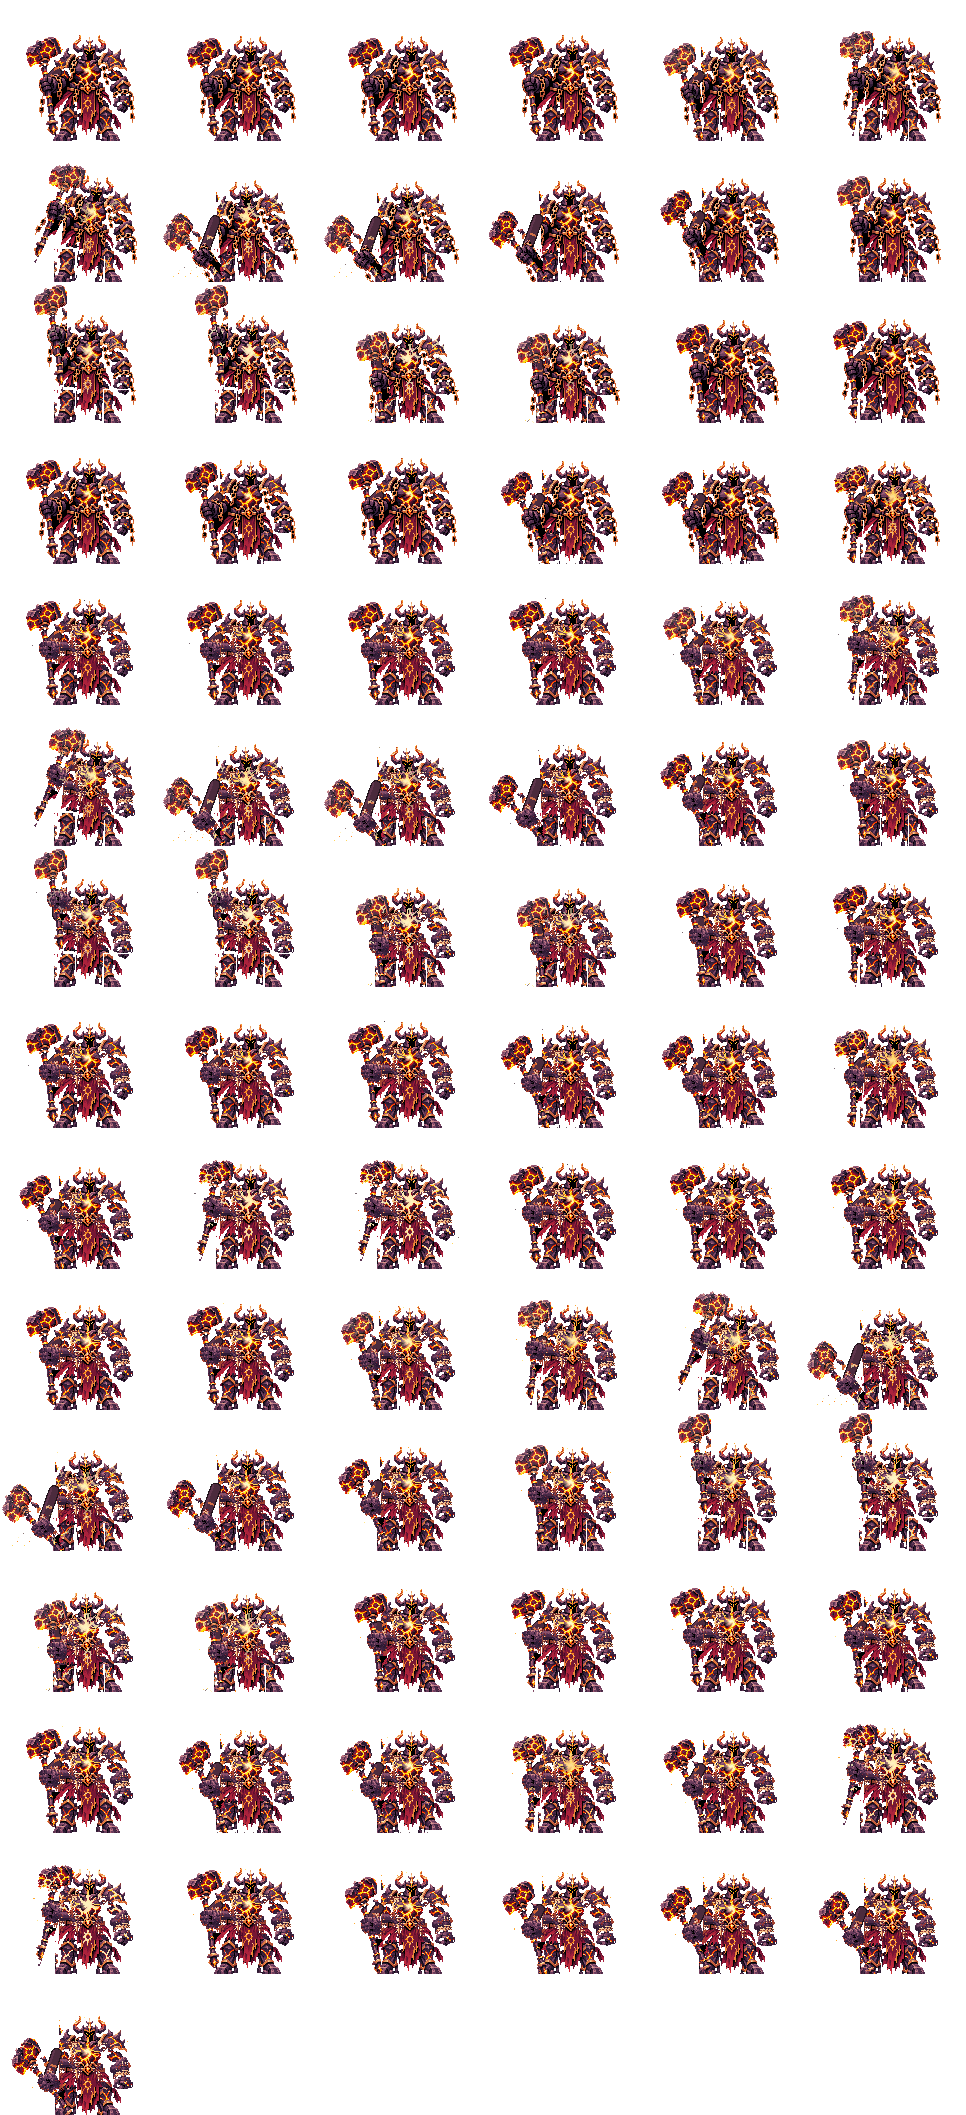
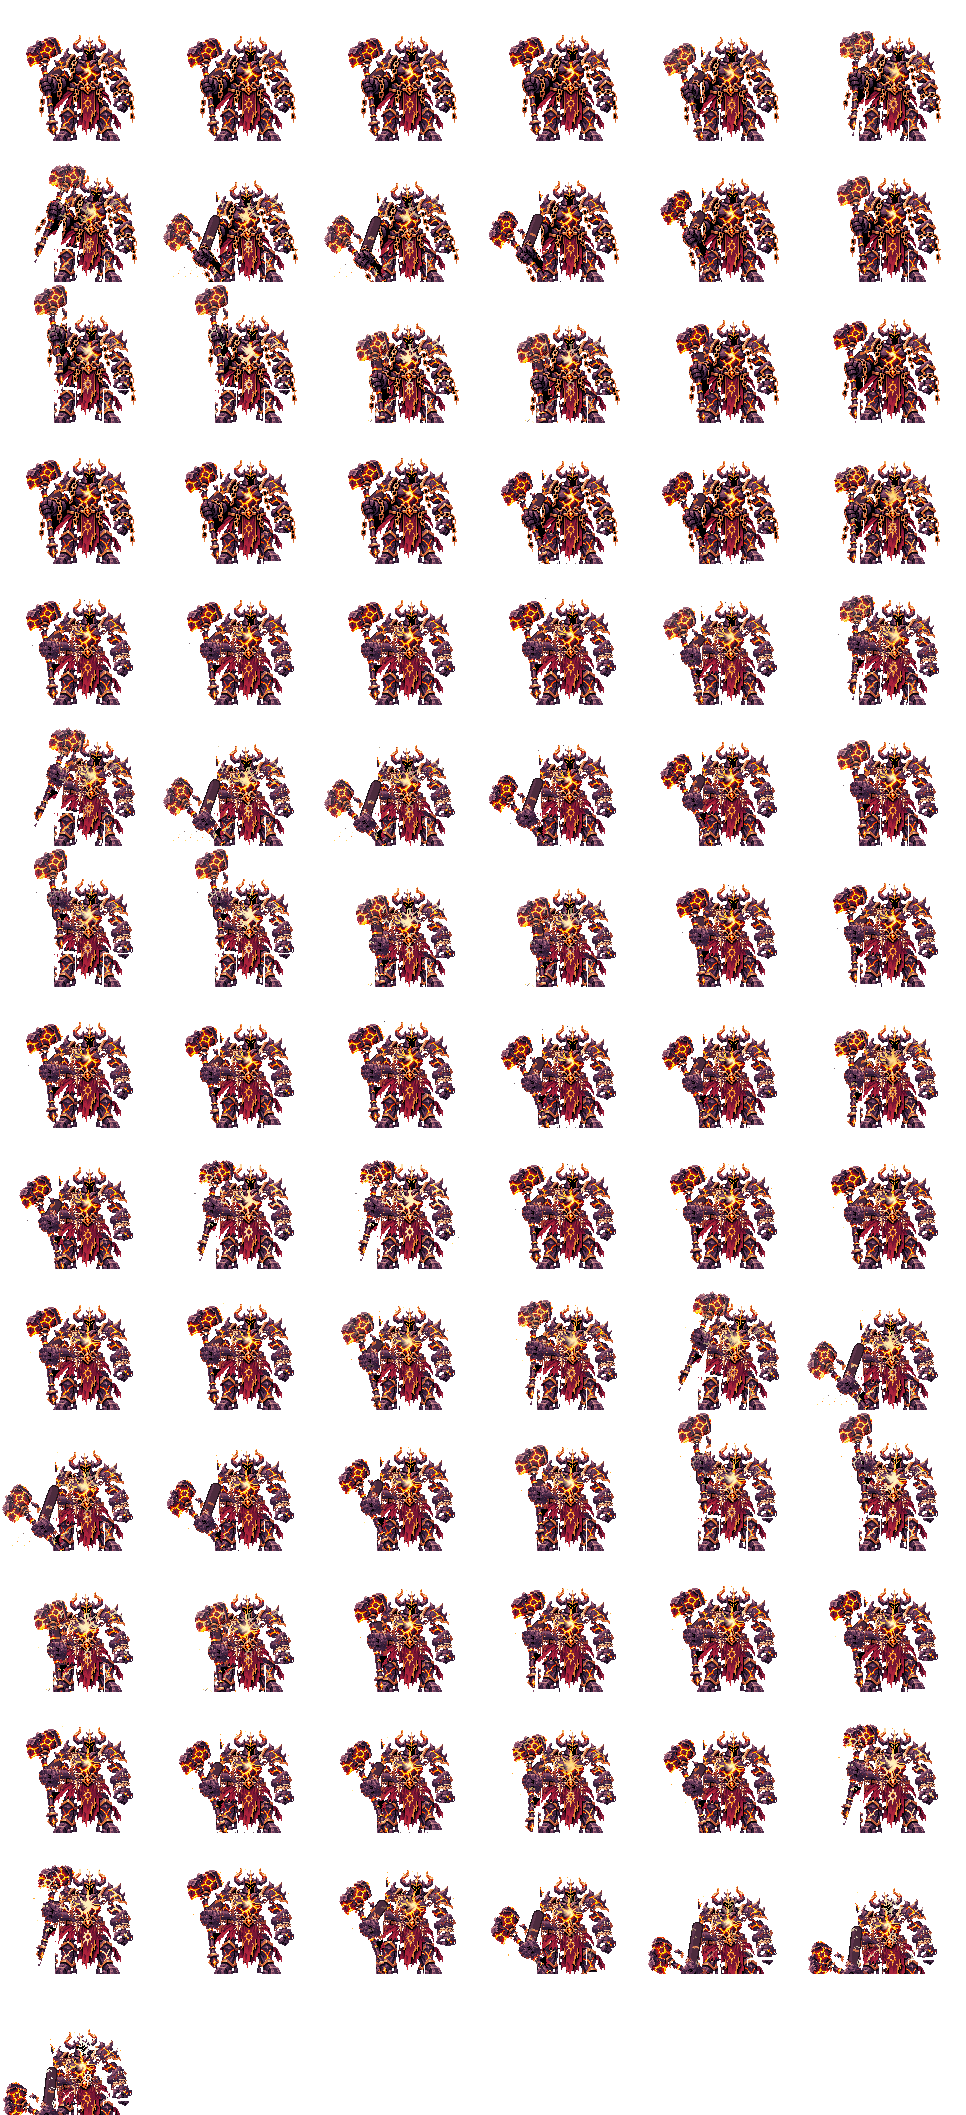
Ashkar's Last Crucible, and a true kneel when he dies (2026-11-11, the user: "Make the circle phase a mandatory survival phase at the end. Survival for 20 seconds and then he becomes vulnerable while continuing the phase until he's dead" and "The death animation is terrible. You basically condensed 

diff --git a/src/bosses/ashkar_gatekeeper.js b/src/bosses/ashkar_gatekeeper.js
@@ -296,6 +296,26 @@ function coreShot(g, e) {
 // center shot must be longer. Also, have the ray have two hands instead of one ray out. Make the lava cracks pixel"): 18 s
 // of it, not 10; two beams out of him, opposite, in II as in III; four blows of the handle, not two; the cracks in blocks
 const CRU_T = 18.2;                                          // (set to closed, s)
+// The Last Crucible (2026-11-11, the user: "Make the circle phase a mandatory survival phase at the end. Survival for 20
+// seconds and then he becomes vulnerable while continuing the phase until he's dead"): below 15% in III he strides to the
+// middle and the Crucible begins and never ends. For its first 20 s (from when he stands there) nothing hurts him: you
+// survive it. Then his armour gives and he can be struck, the cracks, the beams and the blows of his handle going on,
+// every 3.6 s, till he falls (they go out with him: game.js, a lane's boss)
+const FINAL_SURVIVE = 20;
+function lastCrucible(g, e) {
+  const S = e.bx;
+  S.akFinal = { startAt: g.t };
+  if (g.banner) g.banner('THE LAST CRUCIBLE · SURVIVE', 3000);
+  g.sfx('roar'); g.vx({ k: 'shake', amt: 10 });
+  S.akCru = { stage: 'walk', startAt: g.t, final: true };
+}
+function cruVulnerable(g, e) {
+  const S = e.bx; if (!S.akFinal) return;
+  S.akFinal.open = true;
+  if (g.banner) g.banner('HIS ARMOUR GIVES · STRIKE HIM DOWN', 2600);
+  g.vx({ k: 'shake', amt: 8 }); g.sfx('shatter');
+  const [cx, cy] = CORE(g, e); g.vx({ k: 'burst', x: cx, y: cy, n: 30, colors: [...GLASS, ...FIRE] });
+}
 function crucible(g, e) {
   const S = e.bx;
   if (g.banner) g.banner('THE CRUCIBLE WAKES.', 2200);
@@ -303,8 +323,9 @@ function crucible(g, e) {
   S.akCru = { stage: 'walk', startAt: g.t };
 }
 function cruSet(g, e) {                                       // he stands in the middle: the floor cracks, the beam is marked
-  const S = e.bx, Q = S.akCru, C = mid(e), { A } = hall(e), t = g.t, R0 = Math.min(A.w, A.h) / 2 - 1.5;
-  Object.assign(Q, { stage: 'set', setAt: t, openAt: t + 1.2, onAt: t + 2.2, closeAt: t + CRU_T, cx: C.x, cy: C.y, cracks: [] });
+  const S = e.bx, Q = S.akCru, C = mid(e), { A } = hall(e), t = g.t, R0 = Math.min(A.w, A.h) / 2 - 1.5, LIFE = Q.final ? 99999 : CRU_T;   // (the last one never closes)
+  Object.assign(Q, { stage: 'set', setAt: t, openAt: t + 1.2, onAt: t + 2.2, closeAt: t + LIFE, cx: C.x, cy: C.y, cracks: [] });
+  if (Q.final) { S.akFinal.vulnAt = t + FINAL_SURVIVE; later(e, FINAL_SURVIVE, 'cruVulnerable'); }
   // (2026-11-11, the user: "Ensure that everything is high damage and players should be punished for running into the lava.
   // Purple armor broken damage from them. Also maybe make the lava cracks a bit more realistic (thicker in the center? and
   // more irregular?)"): each crack wanders (five to seven legs, each turned freely, of uneven length), widest in its middle
@@ -320,7 +341,7 @@ function cruSet(g, e) {                                       // he stands in th
       if (k === legs) break;
       const L = 0.5 + Math.random() * 0.75, a = h + (Math.random() - 0.5) * 1.6, nx = x + Math.cos(a) * L, ny = y + Math.sin(a) * L;
       h += (Math.random() - 0.5) * 0.6;                     // (it wanders)
-      g.fx.push({ kind: 'lane', x, y, a, len: L, w: Math.max(0.22, w), delay: 1.2, t: 0, life: CRU_T, dmg: crackDmg, every: 0.4, broken: 3, by, hitT: 0, noDraw: true, boss: e.id });
+      g.fx.push({ kind: 'lane', x, y, a, len: L, w: Math.max(0.22, w), delay: 1.2, t: 0, life: LIFE, dmg: crackDmg, every: 0.4, broken: 3, by, hitT: 0, noDraw: true, boss: e.id });
       x = nx; y = ny;
     }
     Q.cracks.push(pts); return pts;
@@ -331,10 +352,11 @@ function cruSet(g, e) {                                       // he stands in th
     if (Math.random() < 0.6) { const m = P0[Math.floor(P0.length / 2)]; crack(m[0], m[1], Math.atan2(P0[P0.length - 1][1] - P0[0][1], P0[P0.length - 1][0] - P0[0][0]) + (Math.random() < 0.5 ? 1 : -1) * (0.8 + Math.random() * 0.6), 2 + Math.floor(Math.random() * 2), 0.32); }
   }
   // the pool under him burns too (a square of floor about him: he stands in the middle of it)
-  g.fx.push({ kind: 'lane', x: C.x - POOL_R, y: C.y, a: 0, len: POOL_R * 2, w: POOL_R * 0.8, delay: 1.2, t: 0, life: CRU_T, dmg: crackDmg, every: 0.4, broken: 3, by, hitT: 0, noDraw: true, boss: e.id });
+  g.fx.push({ kind: 'lane', x: C.x - POOL_R, y: C.y, a: 0, len: POOL_R * 2, w: POOL_R * 0.8, delay: 1.2, t: 0, life: LIFE, dmg: crackDmg, every: 0.4, broken: 3, by, hitT: 0, noDraw: true, boss: e.id });
   const q = target(g, e), sg = (S.akCruS = -(S.akCruS || 1)), spin = sg * deg(42), a0 = angleTo(C.x, C.y, q.x, q.y) - sg * deg(110), len = R0 + 3;
   Q.beam = { a0, spin, n: 2, len };
-  for (let k = 0; k < Q.beam.n; k++) g.fx.push({ kind: 'lane', x: C.x, y: C.y, a0: a0 + k * Math.PI, a: a0 + k * Math.PI, spin, len, w: 0.6, delay: 2.2, t: 0, life: CRU_T, dmg: g.bxDmg(e, D(260)), every: 0.3, broken: 4, by, hitT: 0, noDraw: true, boss: e.id });
+  for (let k = 0; k < Q.beam.n; k++) g.fx.push({ kind: 'lane', x: C.x, y: C.y, a0: a0 + k * Math.PI, a: a0 + k * Math.PI, spin, len, w: 0.6, delay: 2.2, t: 0, life: LIFE, dmg: g.bxDmg(e, D(260)), every: 0.3, broken: 4, by, hitT: 0, noDraw: true, boss: e.id });
+  if (Q.final) { later(e, 4.4, 'cruRaise', { rings: 2, again: true }); return void g.sfx('hammer'); }   // (the last: a blow every 3.6 s, for ever)
   [[4.4, 2], [8.0, 2], [11.6, 3], [15.2, 3]].forEach(([t, rings]) => later(e, t, 'cruRaise', { rings }));
   later(e, CRU_T + 0.1, 'cruEnd');
   g.sfx('hammer');
@@ -342,6 +364,7 @@ function cruSet(g, e) {                                       // he stands in th
 function cruRaise(g, e, V) {                                  // the mace lifted high, then its handle driven into the floor (his smash clip; the blow lands at 0.5 s)
   e.bx.akSmash = { at: g.t, until: g.t + 1.0 };
   later(e, 0.5, 'cruSlam', { rings: V.rings });
+  if (V.again && e.bx.akCru) later(e, 3.6, 'cruRaise', { rings: V.rings === 2 ? 3 : 2, again: true });   // (the last Crucible: on and on, two rings and three by turns)
 }
 function cruSlam(g, e, V) {
   thud(g, e, e.x, e.y + 1); g.vx({ k: 'shake', amt: 9 });
@@ -388,16 +411,18 @@ const AT = {
   scythe: P('Scything Links', 'scythe', 6.5, { move: 'hold' }), hunt: P('Forge Hunt', 'hunt', 6.4, { move: 'hold' }),
   inverted: P('Inverted Anvil', 'inverted', 5.6, { move: 'hold' }), gate: P('The Gatebreaker', 'gatebreaker', 11.5, { move: 'hold' }),
   crucible: P('The Crucible', 'crucible', 22.5, { move: 'crucible', instant: true }),
+  last: P('The Last Crucible', 'lastCrucible', 99999, { move: 'crucible', instant: true }),
 };
 const CYCLE = {
   1: { len: 20, list: [[0, 'chains'], [3.8, 'sentence'], [7.5, 'teeth'], [12.5, 'press']] },
   2: { len: 46.5, list: [[0, 'faults'], [3.3, 'sentence'], [6.8, 'shatter'], [11.4, 'teeth'], [15.2, 'chains'], [19.5, 'press'], [23.7, 'crucible']] },
   3: { len: 46.5, list: [[0, 'scythe'], [6.7, 'hunt'], [13.0, 'inverted'], [18.0, 'sentence'], [23.6, 'crucible']] },
 };
-const LAST = ['gate', 'sentence', 'hunt'];                 // below 15%
+const LAST = ['gate', 'sentence', 'hunt'];                 // (below 15%: the Gatebreaker cycle, before the Last Crucible took its place)
 function choose(g, e) {
   const S = e.bx, C = S.akDir && S.akDir.ph === S.phase ? S.akDir : (S.akDir = { ph: S.phase, t0: g.t, i: 0, last: 0 });
-  if (S.phase === 3 && e.hp / e.maxHp <= 0.15) return AT[LAST[C.last++ % LAST.length]];   // (each starts once the last has run its course)
+  if (S.phase === 3 && e.hp / e.maxHp <= 0.15) return S.akFinal ? null : AT.last;   // (below 15%: the Last Crucible, once; it never ends)
+  void LAST;
   const Y = CYCLE[S.phase] || CYCLE[3];
   if (C.i >= Y.list.length) { if (g.t < C.t0 + Y.len) return null; C.t0 = g.t; C.i = 0; }
   const [off, k] = Y.list[C.i];
@@ -522,7 +547,9 @@ export default {
   charging: (g, e) => !!(e.akDash && g.t >= e.akDash.at),   // (his Forge Hunt's charges)
   specials: { sentence, sentenceLock, sentenceWave, chains, chainSweep, teeth, tooth, teethDone, press, pressMark, pressWall, faults, fault, shatter, plates, sparkle,
     scythe, scytheGo, scytheFan, hunt, charge, inverted, invRing, invHold, invBack, gatebreaker, gateLinks, gateCone, gateFaults, anchorShot, coreShot,
-    crucible, cruRaise, cruSlam, cruRing, cruEnd, anvilStrike },
+    crucible, cruRaise, cruSlam, cruRing, cruEnd, anvilStrike, lastCrucible, cruVulnerable },
+  // the Last Crucible's survival: nothing hurts him till its 20 s are over
+  immune: (g, e) => e.bx.phase === 3 && e.hp / e.maxHp <= 0.15 && !(e.bx.akFinal && e.bx.akFinal.open), immuneText: 'SURVIVE',   // (from 15% till its 20 s are over: no one bursts him past it)
   // his own clips between attacks: the Crucible's great blow, an anvil struck, standing still in the Crucible (src/bossx.js bxPose)
   posing(g, e) {
     const S = e.bx, A = S.anim, ph = S.phase || 1, P0 = S.def.phases[ph];
@@ -582,11 +609,12 @@ export default {
   update(g, e, dt) {
     const S = e.bx;
     if (S.state === 'sleep' || S.state === 'intro') return;
+    if (S.phase === 3 && e.hp / e.maxHp <= 0.15 && !S.akFinal && !S.akCru && S.state === 'recover') S.wait = Math.min(S.wait, 0.3);   // (the Last Crucible: at once)
     if (S.akStrike && !S.akStrike.done && g.t >= S.akStrike.hitAt) { S.akStrike.done = true; anvilSpit(g, e, S.akStrike.i); }   // (the anvil struck)
     if (S.akStrike && g.t > S.akStrike.until) S.akStrike = null;
     if (S.akSmash && g.t > S.akSmash.until) S.akSmash = null;
     const Qc = S.akCru;                                    // (a Crucible cut short, by a change of phase: its fire runs out on its own)
-    if (Qc && (Qc.stage === 'walk' ? g.t - Qc.startAt > 4 : g.t > Qc.closeAt + 0.3)) { S.akCru = null; S.akSmash = null; }
+    if (Qc && !Qc.final && (Qc.stage === 'walk' ? g.t - Qc.startAt > 4 : g.t > Qc.closeAt + 0.3)) { S.akCru = null; S.akSmash = null; }
     const Dh = e.akDash;                                   // a charge in flight: it strikes you once, then cinders where it ends
     if (Dh && g.t >= Dh.at) {
       if (g.t >= Dh.until) {

diff --git a/src/render.js b/src/render.js
@@ -1679,7 +1679,14 @@ export class Renderer {
   // a great boss falling to a knee (bossx bxDie): its hurt pose, the body above the hips sinking as the legs fold under it
   // (the legs drawn shorter, the feet where they stood), a lean forward, then trembling till it bursts
   kneelBoss(g, e, S, sx, sy) {
-    const def = S.def, f = def.frames[S.kneel.fr]; if (!f) return;
+    const def = S.def, KN = def.anims && def.anims.kneel;
+    if (KN) {                                                // a boss drawn with its own kneel (Ashkar: tools/build_ashkar.py die), played over the time it kneels
+      const q = Math.max(0, Math.min(0.999, (g.t - S.kneel.at) / S.kneel.T)), fr = KN.frames[Math.floor(q * KN.frames.length)], K = S.drawK || S.B.drawScale || 1;
+      const shake = q > 0.5 ? Math.round((Math.random() - 0.5) * 2) : 0;
+      this.drawDef(def, fr, Math.round(sx) + shake, sy, { flip: !!e.face, scale: K });
+      return;
+    }
+    const f = def.frames[S.kneel.fr]; if (!f) return;
     const k0 = Math.min(1, (g.t - S.kneel.at) / 0.45), k = 1 - (1 - k0) ** 3;          // (a heavy drop, quick then settling)
     const U = this.U || 1, Kd = 2 * (S.drawK || S.B.drawScale || 1), I = outlinedFrame(def.img, f.x, f.y, f.w, f.h, U * Kd, undefined, U >= 2 ? 2 : 1), pad = I.pad / U;
     const ay = def.foot[1], hip = ay * 0.6, q = 1 - 0.55 * k, legH = I.height / U - pad - hip * Kd, sink = legH * (1 - q);

diff --git a/tools/build_ashkar.py b/tools/build_ashkar.py
@@ -323,8 +323,28 @@ def enter(act, k):
     return g
 
 
-def die(k):                                     # (the castle's bosses fall to a knee in the game itself, src/render.js kneelBoss: these
-    return comp(layers(3, 0), body=(0, 3 + k), ham=_m.radians(-6 - k * 6), hamd=(0, 4 + k * 3), piv=FIST)   # frames are only for a death outside it, never crumbling)
+def die(k):
+    # his fall (2026-11-11, the user: "The death animation is terrible. You basically condensed the sprite down instead of
+    # providing a proper animation of him kneeling before exploding"): a rig of his own, five beats. He staggers, the mace
+    # slipping in his grip; drops, the right leg folding; lands on that knee (its shin under him, out of sight, the knee on
+    # the floor), the left foot planted, the mace's head on the floor at his side, him bent over it; slumps lower, the core
+    # flaring; and the last beat before he bursts, the core white and the lava in him blazing (the burst is the game's,
+    # src/render.js bossBlast). Drawn in his third look, the one he dies in
+    R = _m.radians
+    L = layers(3, k % 4)
+    def kneel_leg(cut):                         # the right leg: only what is above the knee, the rest folded under him
+        return dict(L, legr=[(x, y, c) for (x, y, c) in L['legr'] if y < cut])
+    if k == 0:                                  # the stagger: reeling back, the mace slipping
+        return tint(comp(L, body=(1, 2), legl=(-1, 0), bang=R(4), ham=R(-14), hamd=(-2, 8), piv=FIST), LAVA, (255, 214, 130), 0.3)
+    if k == 1:                                  # dropping: the right leg giving way under him
+        return tint(comp(kneel_leg(97), body=(0, 9), legl=(-1, 1), legr=(1, 8), bang=R(-2), ham=R(-34), hamd=(-2, 22), piv=FIST), LAVA, (255, 220, 140), 0.35)
+    if k == 2:                                  # on his knee: the knee on the floor, the mace's head beside him, bent over it
+        return tint(comp(kneel_leg(88), body=(0, 19), legl=(-2, 3), legr=(1, 19), bang=R(-5), ham=R(-52), hamd=(-1, 34), piv=FIST), LAVA, (255, 228, 160), 0.45)
+    if k == 3:                                  # slumped lower, the core flaring
+        return tint(comp(kneel_leg(88), body=(0, 21), legl=(-2, 3), legr=(1, 19), bang=R(-8), ham=R(-55), hamd=(-1, 35), piv=FIST), LAVA, (255, 244, 200), 0.75)
+    g = comp(kneel_leg(88), body=(0, 21), legl=(-2, 3), legr=(1, 19), bang=R(-8), ham=R(-55), hamd=(-1, 35), piv=FIST)   # the moment before: white-hot
+    g = tint(g, LAVA, (255, 255, 240), 0.95)
+    return arc(g, [(PS + CORE[0] + _m.cos(i * 0.7) * (8 + i % 4 * 4), PT + CORE[1] + 21 + _m.sin(i * 0.7) * (8 + i % 4 * 4)) for i in range(22)], [(255, 255, 240, 255), (255, 214, 96, 255)])
 
 
 def pack(name, entries, W, H, cols=6):
@@ -380,6 +400,8 @@ if __name__ == '__main__':
         anims[f'hurt{act}'] = {'frames': [f'h{act}'], 'fps': 5, 'loop': False}
         if act > 1: anims[f'enter{act}'] = {'frames': [f'e{act}_{k}' for k in range(4)], 'fps': 3.5, 'loop': False}
     anims['death'] = {'frames': [f'd{k}' for k in range(5)], 'fps': 1.7, 'loop': False}
+    # his kneel (src/render.js kneelBoss plays it over the time he kneels: the stagger, the drop, a long stay on the knee, the white)
+    anims['kneel'] = {'frames': ['d0', 'd1', 'd2', 'd2', 'd2', 'd3', 'd3', 'd3', 'd4', 'd4'], 'fps': 4.5, 'loop': False}
     sheets = {f'bx_{BID}': {'image': f'{BID}.png', 'kind': 'boss', 'sprites': {BID: {'frames': fr, 'anims': anims,
               'phases': {str(a): {'name': NAMES[a], 'idle': f'idle{a}', 'attack': f'attack{a}', 'walk': f'walk{a}', 'charge': f'charge{a}', 'hurt': f'hurt{a}', **({'enter': f'enter{a}'} if a > 1 else {})} for a in (1, 2, 3)}, 'death': 'death', 'meta': {'half': True}}}}}
     json.dump({'rf': True, 'meta': {'name': 'Ashkar, the Chained Forge-Giant (the user\'s sprite)', 'version': 4}, 'sheets': sheets},
